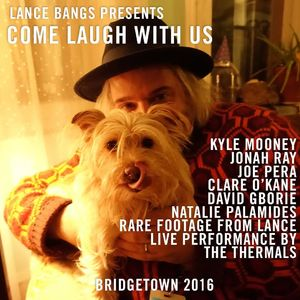
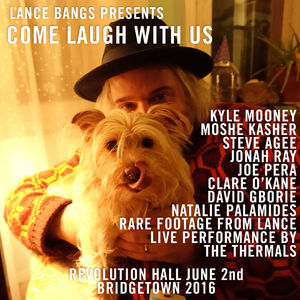
Updated site - 4 files changes

diff --git a/show/12550-lance-bangs-presents-come-laugh-with-us/index.html b/show/12550-lance-bangs-presents-come-laugh-with-us/index.html
@@ -5,7 +5,7 @@ category: show
 featuredimage: '/api/img/show-images/show-lancebangspresentscomelaughwithus-300x300.jpg'
 ---
 
-For this special event at Revolution Hall on Thursday, June 2nd, Lance welcomes guests Jonah Ray, Kyle Mooney, Steve Agee, Moshe Kasher, David Gborie, Joe Pera, Natalie Palamides, and Clare O&#039;Kane, with live music from The Thermals!
+For this special event at Revolution Hall on Thursday, June 2nd, Lance welcomes guests Jonah Ray, Moshe Kasher, Kyle Mooney, Steve Agee, Moshe Kasher, David Gborie, Joe Pera, Natalie Palamides, and Clare O&#039;Kane, with live music from The Thermals!
 
 Lance Bangs is a Pacific Northwest institution, and a legend in the worlds of music and comedy. As a filmmaker and music video director he’s created videos for Sonic Youth, Nirvana, Neutral Milk Hotel, Green Day, Arcade Fire, The Shins, The Thermals, Belle &amp; Sebastian, Menomena, Yeah Yeah Yeahs, R.E.M., Mike Watt, Death Cab for Cutie, The Black Keys, Kanye West, Odd Future, and Pavement. He directed the David Cross film Let America Laugh, and he’s been heavily involved in the filming and production of MTV&#039;s Jackass television series and its subsequent movies. Most recently he’s directed Viceland’s Flophouse—a series where he follows the lives of up-and-coming comedians at underground stand-up events.
 
